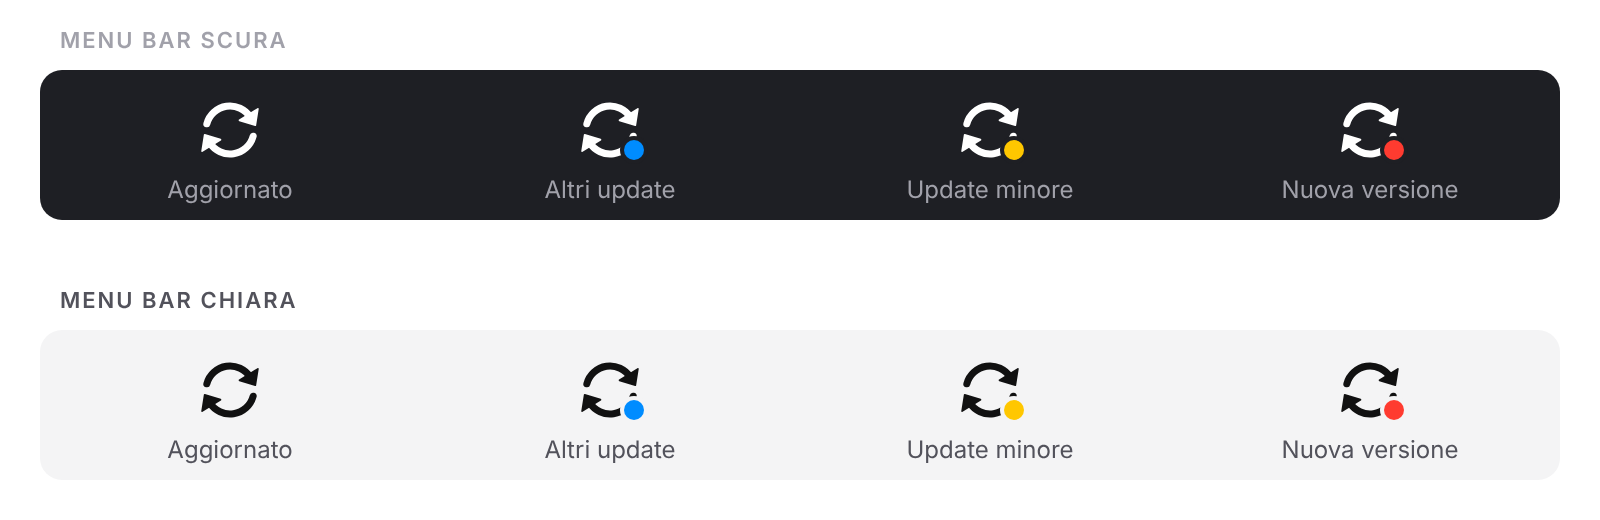
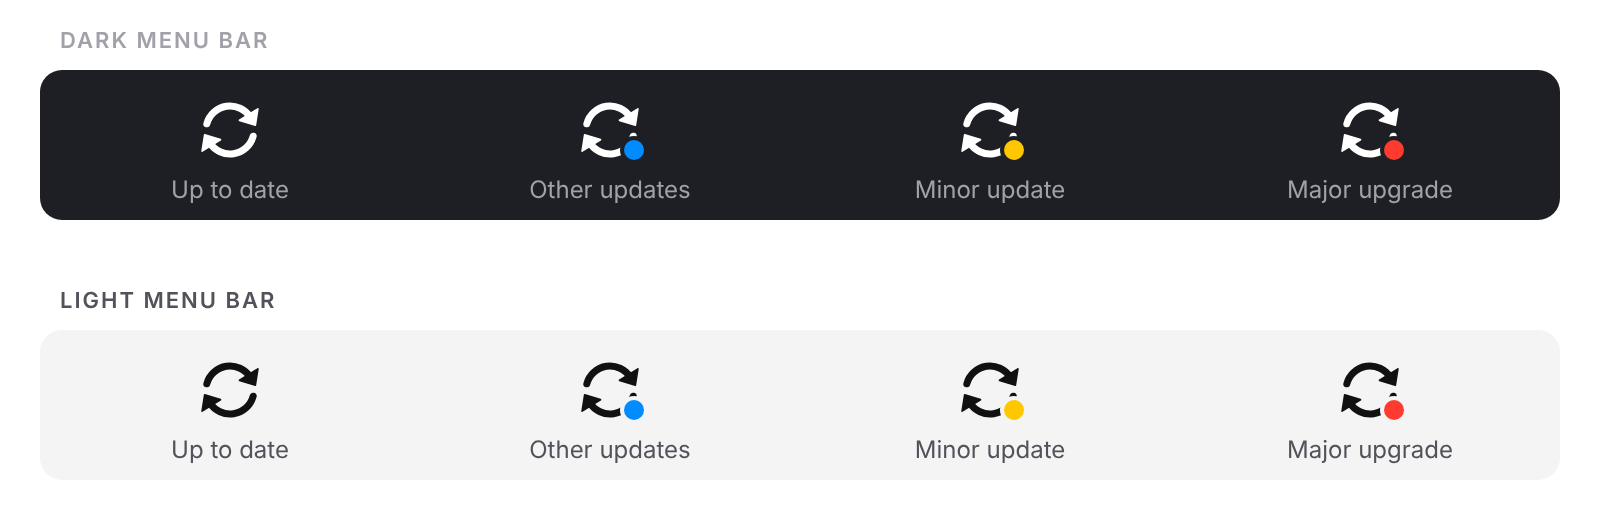
README in English

diff --git a/README.md b/README.md
@@ -4,74 +4,74 @@
 
 # UpdateBar
 
-**Gli aggiornamenti di macOS, a colpo d'occhio. Stile Windows Update, ma per Mac.**
+**macOS updates at a glance. Windows Update style, for your Mac.**
 
-Un'app leggerissima per la menu bar che controlla gli aggiornamenti di sistema<br>
-e te li segnala con due frecce e un puntino colorato.
+A tiny menu bar app that checks for system updates<br>
+and shows them with two arrows and a colored dot.
 
-[![macOS](https://img.shields.io/badge/macOS-13%2B-000000?logo=apple&logoColor=white)](#requisiti)
+[![macOS](https://img.shields.io/badge/macOS-13%2B-000000?logo=apple&logoColor=white)](#requirements)
 [![Swift](https://img.shields.io/badge/Swift-SwiftUI-F05138?logo=swift&logoColor=white)](UpdateBar.swift)
 [![License: MIT](https://img.shields.io/badge/License-MIT-blue.svg)](LICENSE)
 [![Release](https://img.shields.io/github/v/release/AndreaPolazzo/UpdateBar?label=download)](https://github.com/AndreaPolazzo/UpdateBar/releases/latest)
 
-[Funzionalità](#-funzionalità) · [Installazione](#-installazione) · [Come funziona](#-come-funziona) · [FAQ](#-faq) · [Roadmap](#-roadmap)
+[Features](#-features) · [Install](#-install) · [How it works](#%EF%B8%8F-how-it-works) · [FAQ](#-faq) · [Roadmap](#%EF%B8%8F-roadmap)
 
 </div>
 
 ---
 
-## ✨ Perché
+## ✨ Why
 
-Su Windows sai sempre se c'è un aggiornamento: l'icona nella barra delle applicazioni ti avvisa senza disturbare.
-Su macOS il badge rosso finisce dentro Impostazioni di Sistema, dove nessuno guarda.
+On Windows you always know when an update is waiting: a small icon in the taskbar tells you, without getting in the way.
+On macOS the red badge is buried inside System Settings, where nobody looks.
 
-**UpdateBar** porta quell'indicatore nella menu bar del Mac, e ci aggiunge un'informazione in più: **che tipo** di aggiornamento ti aspetta.
+**UpdateBar** brings that indicator to the Mac menu bar, and adds one more piece of information: **what kind** of update is waiting for you.
 
 <div align="center">
-<img src="assets/states.png" width="820" alt="Stati dell'icona in menu bar">
+<img src="assets/states.png" width="820" alt="Menu bar icon states">
 </div>
 
-## 🎨 I colori
+## 🎨 Colors
 
-| Icona | Stato | Esempio |
+| Icon | Meaning | Example |
 |:---:|---|---|
-| ⚪ nessun puntino | Sei aggiornato | — |
-| 🔵 blu | Altri aggiornamenti | Command Line Tools, Safari, risposte rapide di sicurezza |
-| 🟡 giallo | Aggiornamento minore di macOS | 27.1 → 27.2 |
-| 🔴 rosso | Nuova versione maggiore di macOS | 26 → 27 |
+| ⚪ no dot | You're up to date | — |
+| 🔵 blue | Other updates | Command Line Tools, Safari, Rapid Security Responses |
+| 🟡 yellow | Minor macOS update | 27.1 → 27.2 |
+| 🔴 red | Major macOS upgrade | 26 → 27 |
 
-Se ci sono più aggiornamenti insieme, il puntino mostra **il più importante**.
-Mentre controlla, le frecce diventano semitrasparenti.
+When several updates are available, the dot shows **the most important one**.
+While a check is running, the arrows are dimmed.
 
-## 🚀 Funzionalità
+## 🚀 Features
 
-- **Controllo automatico** all'avvio e poi ogni 4 ore
-- **Controlla ora** dal menu, con scorciatoia <kbd>⌘</kbd> <kbd>R</kbd>
-- **Notifiche native** di macOS, una sola volta per ogni nuovo aggiornamento
-- **Elenco degli update** disponibili, con avviso se richiedono il riavvio
-- **Un click** su un aggiornamento apre direttamente *Impostazioni → Aggiornamento Software*
-- **Avvia al login** con un interruttore (usa `SMAppService`, niente LaunchAgent a mano)
-- **Nessuna icona nel Dock**: vive solo in menu bar
-- **Si adatta** automaticamente a menu bar chiara e scura
-- **Zero dipendenze**: un solo file Swift, compilabile senza Xcode
+- **Automatic checks** at launch and every 4 hours
+- **Check now** from the menu, or with <kbd>⌘</kbd> <kbd>R</kbd>
+- **Native macOS notifications**, sent only once per new update
+- **List of available updates**, flagged when a restart is required
+- **One click** on an update opens *System Settings → Software Update*
+- **Launch at login** toggle (uses `SMAppService`, no hand-written LaunchAgents)
+- **No Dock icon**: it lives in the menu bar only
+- **Follows** light and dark menu bars automatically
+- **Zero dependencies**: a single Swift file, builds without Xcode
 
-## 📦 Installazione
+## 📦 Install
 
-### Download (consigliato)
+### Download (recommended)
 
-1. Scarica **[`UpdateBar.dmg`](https://github.com/AndreaPolazzo/UpdateBar/releases/latest/download/UpdateBar.dmg)** dall'ultima [Release](https://github.com/AndreaPolazzo/UpdateBar/releases/latest)
-2. Aprilo e trascina **UpdateBar** sulla cartella **Applicazioni**
-3. Aprila. La prima volta macOS la blocca perché non è firmata con un Developer ID Apple:
-   vai in **Impostazioni di Sistema → Privacy e sicurezza** e clicca **Apri comunque**
+1. Download **[`UpdateBar.dmg`](https://github.com/AndreaPolazzo/UpdateBar/releases/latest/download/UpdateBar.dmg)** from the latest [Release](https://github.com/AndreaPolazzo/UpdateBar/releases/latest)
+2. Open it and drag **UpdateBar** onto the **Applications** folder
+3. Launch it. The first time, macOS blocks it because it isn't signed with an Apple Developer ID:
+   go to **System Settings → Privacy & Security** and click **Open Anyway**
 
 > [!NOTE]
-> In alternativa, da Terminale: `xattr -dr com.apple.quarantine /Applications/UpdateBar.app`
+> Alternatively, from Terminal: `xattr -dr com.apple.quarantine /Applications/UpdateBar.app`
 
-Funziona su Mac Apple Silicon e Intel (universal binary). Nella Release c'è anche `UpdateBar.zip` se preferisci.
+Runs on both Apple Silicon and Intel Macs (universal binary). A `UpdateBar.zip` is also attached to every Release if you prefer it.
 
-### Compilare dai sorgenti
+### Build from source
 
-Serve solo un Mac con i **Command Line Tools** (non Xcode):
+All you need is a Mac with the **Command Line Tools** (no Xcode):
 
 ```bash
 xcode-select --install
@@ -80,125 +80,135 @@ cd UpdateBar
 ./build.sh
 ```
 
-Lo script compila, firma ad-hoc, installa l'app in `/Applications` e la avvia.
-Da quel momento la cartella clonata non serve più.
+The script compiles, ad-hoc signs, installs the app into `/Applications` and launches it.
+After that, the cloned folder is no longer needed.
 
 > [!TIP]
-> Apri il menu di UpdateBar e attiva **Avvia al login** per averla sempre attiva.
+> Open the UpdateBar menu and turn on **Launch at login** to keep it always running.
 
-### Aggiornare UpdateBar
+### Updating
 
-Scarica l'ultima Release, oppure dai sorgenti: `git pull && ./build.sh`
+Download the latest Release, or from source: `git pull && ./build.sh`
 
-### Disinstallare
+### Uninstalling
 
-1. Menu di UpdateBar → disattiva **Avvia al login** → **Esci**
-2. Trascina `/Applications/UpdateBar.app` nel Cestino
+1. UpdateBar menu → turn off **Launch at login** → **Quit**
+2. Drag `/Applications/UpdateBar.app` to the Trash
 
-## ⚙ Come funziona
+### Requirements
 
-UpdateBar non usa API private né servizi esterni. Sotto il cofano:
+- macOS 13 Ventura or later
+- Apple Silicon or Intel
+
+## ⚙ How it works
+
+UpdateBar uses no private APIs and no external services. Under the hood:
 
 ```
-                 ogni 4 ore / ⌘R
+                 every 4 hours / ⌘R
                         │
                         ▼
         /usr/sbin/softwareupdate --list
                         │
                         ▼
-     parsing di "Label" + "Title, Version, Action"
+     parse "Label" + "Title, Version, Action"
                         │
                         ▼
   ┌─────────────────────┼──────────────────────┐
   │                     │                      │
- non è macOS     macOS, stessa major     macOS, major > attuale
-  🔵 blu            🟡 giallo                🔴 rosso
+ not macOS      macOS, same major      macOS, major > current
+  🔵 blue           🟡 yellow                🔴 red
 ```
 
-- La versione attuale viene letta con `ProcessInfo.operatingSystemVersion`
-- L'icona è disegnata a runtime partendo dal simbolo SF `arrow.triangle.2.circlepath`, colorata con `labelColor` per seguire il tema della menu bar
-- Il puntino ha un bordo trasparente, come l'indicatore di Windows
+- The current version is read from `ProcessInfo.operatingSystemVersion`
+- The icon is drawn at runtime from the SF Symbol `arrow.triangle.2.circlepath`, tinted with `labelColor` so it matches the menu bar theme
+- The dot has a transparent ring around it, just like the Windows indicator
 
-### Struttura del progetto
+### Project structure
 
 ```
 UpdateBar/
-├── UpdateBar.swift   # tutta l'app: modello, checker, icona, menu
-├── Info.plist        # LSUIElement = niente Dock
-├── AppIcon.icns      # icona dell'app
-├── build.sh          # compila, firma, installa, avvia (--ci: crea DMG e zip)
-├── .github/workflows # build e Release automatiche
-└── assets/           # immagini del README
+├── UpdateBar.swift   # the whole app: model, checker, icon, menu
+├── Info.plist        # LSUIElement = no Dock icon
+├── AppIcon.icns      # app icon
+├── build.sh          # build, sign, install, launch (--ci: create DMG and zip)
+├── .github/workflows # automated builds and Releases
+└── assets/           # README images
 ```
+
+### Releases
+
+Every push to `main` builds the app on a GitHub-hosted Mac and publishes the Release `v<version>` with the DMG and the zip.
+To ship a new version, bump `CFBundleShortVersionString` in `Info.plist`.
 
 ## ❓ FAQ
 
 <details>
-<summary><b>Perché non è sull'App Store?</b></summary>
+<summary><b>Why isn't it on the App Store?</b></summary>
 <br>
-Per leggere gli aggiornamenti deve eseguire <code>softwareupdate</code>, cosa che la sandbox dell'App Store non permette.
+To read available updates it has to run <code>softwareupdate</code>, which the App Store sandbox doesn't allow.
 </details>
 
 <details>
-<summary><b>Installa gli aggiornamenti da sola?</b></summary>
+<summary><b>Does it install updates by itself?</b></summary>
 <br>
-No, di proposito. Installare aggiornamenti di sistema richiede privilegi di amministratore: UpdateBar si limita ad avvisarti e ad aprire Aggiornamento Software.
+No, on purpose. Installing system updates requires administrator privileges: UpdateBar only lets you know and opens Software Update.
 </details>
 
 <details>
-<summary><b>Il primo controllo è lento</b></summary>
+<summary><b>The first check is slow</b></summary>
 <br>
-È normale: <code>softwareupdate --list</code> contatta i server Apple e può impiegare 20–60 secondi. Nel frattempo le frecce sono semitrasparenti.
+That's expected: <code>softwareupdate --list</code> talks to Apple's servers and can take 20–60 seconds. The arrows stay dimmed in the meantime.
 </details>
 
 <details>
-<summary><b>Non vedo il puntino rosso anche se esiste una nuova versione di macOS</b></summary>
+<summary><b>I don't see the red dot even though a new macOS version is out</b></summary>
 <br>
-Su alcuni Mac (gestiti da un'organizzazione o con aggiornamenti posticipati) <code>softwareupdate</code> non elenca gli upgrade maggiori, quindi UpdateBar non può vederli.
+On some Macs (managed by an organization, or with deferred updates) <code>softwareupdate</code> doesn't list major upgrades, so UpdateBar can't see them either.
 </details>
 
 <details>
-<summary><b>macOS dice che l'app non può essere aperta</b></summary>
+<summary><b>macOS says the app can't be opened</b></summary>
 <br>
-La versione scaricata non è firmata con un Developer ID Apple (costa 99 $/anno). Vai in <b>Impostazioni di Sistema → Privacy e sicurezza → Apri comunque</b>, oppure togli la quarantena con <code>xattr -dr com.apple.quarantine /Applications/UpdateBar.app</code>. Compilandola tu con <code>build.sh</code> non succede.
+The downloaded build isn't signed with an Apple Developer ID (that costs $99/year). Go to <b>System Settings → Privacy & Security → Open Anyway</b>, or remove the quarantine flag with <code>xattr -dr com.apple.quarantine /Applications/UpdateBar.app</code>. Building it yourself with <code>build.sh</code> avoids this.
 </details>
 
 <details>
-<summary><b>Errore su <code>@State</code> / <code>SwiftUIMacros</code> in compilazione</b></summary>
+<summary><b>Build error about <code>@State</code> / <code>SwiftUIMacros</code></b></summary>
 <br>
-I soli Command Line Tools non includono il plugin delle macro di SwiftUI. UpdateBar è scritta apposta senza macro, quindi se vedi questo errore stai compilando una versione modificata.
+The Command Line Tools alone don't ship the SwiftUI macro plugin. UpdateBar is written without macros on purpose, so if you see this error you're building a modified version.
 </details>
 
 ## 🗺 Roadmap
 
-- [ ] Aggiornamenti Homebrew (`brew outdated`)
-- [ ] Aggiornamenti App Store (`mas outdated`)
-- [ ] Intervallo di controllo configurabile
-- [x] Release precompilate (DMG, universal binary)
-- [ ] Firma con Developer ID e notarizzazione
-- [ ] Localizzazione in inglese
-- [ ] Sito con GitHub Pages
+- [x] Prebuilt Releases (DMG, universal binary)
+- [ ] Homebrew updates (`brew outdated`)
+- [ ] App Store updates (`mas outdated`)
+- [ ] Configurable check interval
+- [ ] English localization of the app UI
+- [ ] Developer ID signing and notarization
+- [ ] GitHub Pages website
 
-## 🤝 Contribuire
+## 🤝 Contributing
 
-Issue e pull request sono benvenute. Per modifiche grosse apri prima una issue per discuterne.
+Issues and pull requests are welcome. For bigger changes, please open an issue first to discuss it.
 
-1. Fai un fork del progetto
-2. Crea un branch: `git checkout -b feature/nome-feature`
-3. Fai commit: `git commit -m "Aggiunge nome-feature"`
-4. Push: `git push origin feature/nome-feature`
-5. Apri una Pull Request
+1. Fork the project
+2. Create a branch: `git checkout -b feature/my-feature`
+3. Commit: `git commit -m "Add my-feature"`
+4. Push: `git push origin feature/my-feature`
+5. Open a Pull Request
 
-## 📄 Licenza
+## 📄 License
 
-Distribuito sotto licenza MIT. Vedi [`LICENSE`](LICENSE).
+Distributed under the MIT License. See [`LICENSE`](LICENSE).
 
 ---
 
 <div align="center">
 
-Fatto con ☕ da [**Andrea Polazzo**](https://andreapolazzo.com)
+Made with ☕ by [**Andrea Polazzo**](https://andreapolazzo.com)
 
-Se ti è utile, lascia una ⭐
+If you find it useful, leave a ⭐
 
 </div>
